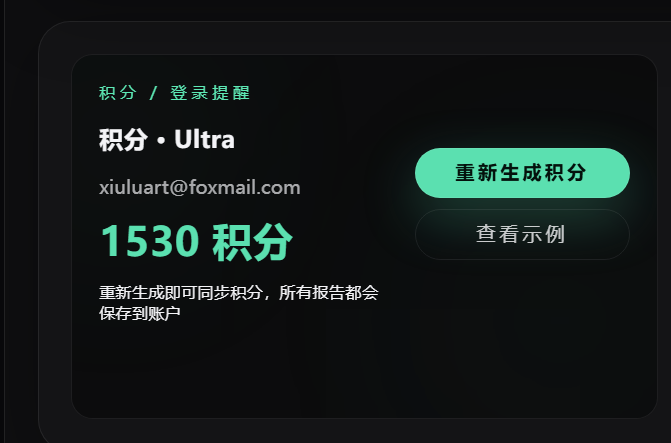
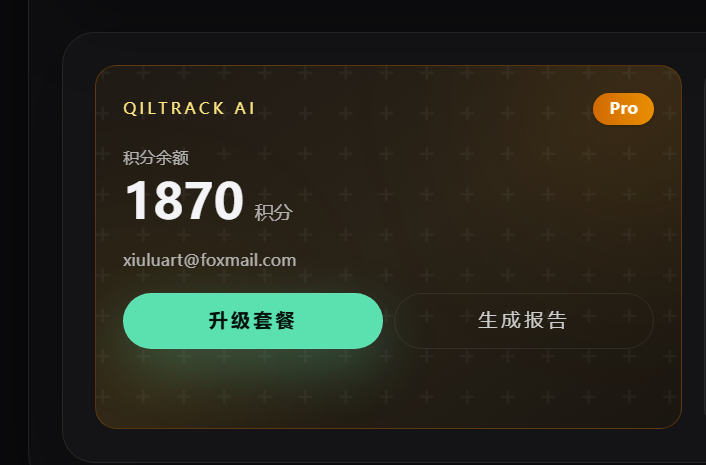
会员卡优化2.0（底色统一）

diff --git a/lib/i18n.tsx b/lib/i18n.tsx
@@ -1255,8 +1255,8 @@ const translations: Record<string, TranslationEntry> = {
     en: "10 credits daily check-in",
     ja: "毎日チェックインで10クレジット",
     ko: "매일 체크인 10 크레딧",
-    "zh-Hant": "每日簽到 10 積分",
-    "zh-Hans": "每日签到 10 积分",
+    "zh-Hant": "每日簽到可領 10 積分",
+    "zh-Hans": "每日签到可领 10 积分",
   },
   "pricing.plan.free.feature3": {
     en: "View reports online",
@@ -1332,12 +1332,12 @@ const translations: Record<string, TranslationEntry> = {
     },
   }),
   "pricing.plan.monthly.feature2": withChineseVariants({
-    en: "15 credits daily check-in",
-    ja: "毎日チェックインで15クレジット",
-    ko: "매일 체크인 15 크레딧",
+    en: "30 credits daily check-in",
+    ja: "毎日チェックインで30クレジット",
+    ko: "매일 체크인 30 크레딧",
     zh: {
-      hant: "每日簽到 15 積分",
-      hans: "每日签到 15 积分",
+      hant: "每日簽到可領 30 積分",
+      hans: "每日签到可领 30 积分",
     },
   }),
   "pricing.plan.monthly.feature3": withChineseVariants({
@@ -1402,10 +1402,10 @@ const translations: Record<string, TranslationEntry> = {
     zh: "300 月度积分",
   }),
   "pricing.plan.pro.feature2": withChineseVariants({
-    en: "15 credits daily check-in",
-    ja: "毎日チェックインで15クレジット",
-    ko: "매일 체크인 15 크레딧",
-    zh: "每日签到 15 积分",
+    en: "30 credits daily check-in",
+    ja: "毎日チェックインで30クレジット",
+    ko: "매일 체크인 30 크레딧",
+    zh: "每日签到可领 30 积分",
   }),
   "pricing.plan.pro.feature3": withChineseVariants({
     en: "Export reports as DOCX",
@@ -1484,12 +1484,12 @@ const translations: Record<string, TranslationEntry> = {
     },
   }),
   "pricing.plan.annual.feature2": withChineseVariants({
-    en: "30 credits daily check-in",
-    ja: "毎日チェックインで30クレジット",
-    ko: "매일 체크인 30 크레딧",
+    en: "60 credits daily check-in",
+    ja: "毎日チェックインで60クレジット",
+    ko: "매일 체크인 60 크레딧",
     zh: {
-      hant: "每日簽到 30 積分",
-      hans: "每日签到 30 积分",
+      hant: "每日簽到可領 60 積分",
+      hans: "每日签到可领 60 积分",
     },
   }),
   "pricing.plan.annual.feature3": withChineseVariants({
@@ -1563,10 +1563,10 @@ const translations: Record<string, TranslationEntry> = {
     zh: "1,500 月度积分",
   }),
   "pricing.plan.ultra.feature2": withChineseVariants({
-    en: "30 credits daily check-in",
-    ja: "毎日チェックインで30クレジット",
-    ko: "매일 체크인 30 크레딧",
-    zh: "每日签到 30 积分",
+    en: "60 credits daily check-in",
+    ja: "毎日チェックインで60クレジット",
+    ko: "매일 체크인 60 크레딧",
+    zh: "每日签到可领 60 积分",
   }),
   "pricing.plan.ultra.feature3": withChineseVariants({
     en: "PDF + DOCX export",
@@ -4127,6 +4127,106 @@ const translations: Record<string, TranslationEntry> = {
     zh: {
       hant: "領取 30 積分",
       hans: "领取 30 积分",
+    },
+  }),
+  // Daily reward component translations
+  "dailyReward.title": withChineseVariants({
+    en: "Daily Check-in",
+    ja: "毎日チェックイン",
+    ko: "매일 체크인",
+    zh: {
+      hant: "每日簽到",
+      hans: "每日签到",
+    },
+  }),
+  "dailyReward.streak": withChineseVariants({
+    en: "Streak: {{count}} days",
+    ja: "連続 {{count}} 日",
+    ko: "연속 {{count}} 일",
+    zh: {
+      hant: "連續簽到 {{count}} 天",
+      hans: "连续签到 {{count}} 天",
+    },
+  }),
+  "dailyReward.canClaim": withChineseVariants({
+    en: "Claim {{credits}} credits today",
+    ja: "本日 {{credits}} クレジット獲得可能",
+    ko: "오늘 {{credits}} 크레딧 받기",
+    zh: {
+      hant: "今日可領取 {{credits}} 積分",
+      hans: "今日可领取 {{credits}} 积分",
+    },
+  }),
+  "dailyReward.claimed": withChineseVariants({
+    en: "Claimed {{credits}} credits today",
+    ja: "本日 {{credits}} クレジット取得済み",
+    ko: "오늘 {{credits}} 크레딧 받음",
+    zh: {
+      hant: "今日已領取 {{credits}} 積分",
+      hans: "今日已领取 {{credits}} 积分",
+    },
+  }),
+  "dailyReward.claimNow": withChineseVariants({
+    en: "Claim Now",
+    ja: "今すぐ取得",
+    ko: "지금 받기",
+    zh: {
+      hant: "立即領取",
+      hans: "立即领取",
+    },
+  }),
+  "dailyReward.alreadyClaimed": withChineseVariants({
+    en: "Claimed",
+    ja: "取得済み",
+    ko: "받음",
+    zh: {
+      hant: "已領取",
+      hans: "已领取",
+    },
+  }),
+  "dailyReward.claiming": withChineseVariants({
+    en: "Claiming...",
+    ja: "取得中...",
+    ko: "받는 중...",
+    zh: {
+      hant: "領取中...",
+      hans: "领取中...",
+    },
+  }),
+  "dailyReward.calendar.title": withChineseVariants({
+    en: "Check-in Progress",
+    ja: "チェックイン進捗",
+    ko: "체크인 진행",
+    zh: {
+      hant: "連續簽到進度",
+      hans: "连续签到进度",
+    },
+  }),
+  "dailyReward.calendar.thisWeek": withChineseVariants({
+    en: "This week",
+    ja: "今週",
+    ko: "이번 주",
+    zh: {
+      hant: "本週",
+      hans: "本周",
+    },
+  }),
+  "dailyReward.calendar.congrats": withChineseVariants({
+    en: "Congrats! 7-day streak achieved!",
+    ja: "おめでとう！7日連続達成！",
+    ko: "축하합니다! 7일 연속 달성!",
+    zh: {
+      hant: "🎉 恭喜！連續簽到7天，再接再厲！",
+      hans: "🎉 恭喜！连续签到7天，再接再厉！",
+    },
+  }),
+  "dailyReward.error": withChineseVariants({
+    en: "Failed to claim",
+    ja: "取得に失敗しました",
+    ko: "받기 실패",
+    zh: {
+      hant: "領取失敗",
+      hans: "领取失败",
     },
   }),
 } as const satisfies Record<string, TranslationEntry>;

diff --git a/app/components/DailyRewardButton.tsx b/app/components/DailyRewardButton.tsx
@@ -2,6 +2,7 @@
 
 import { useState, useEffect } from "react";
 import { claimDailyReward, fetchDailyRewardStatus } from "@/lib/services/api";
+import { useLanguage } from "@/lib/i18n";
 
 interface DailyRewardButtonProps {
   onRewardClaimed?: (credits: number) => void;
@@ -9,6 +10,7 @@ interface DailyRewardButtonProps {
 }
 
 export function DailyRewardButton({ onRewardClaimed, className = "" }: DailyRewardButtonProps) {
+  const { t } = useLanguage();
   const [claiming, setClaiming] = useState(false);
   const [claimed, setClaimed] = useState(false);
   const [streak, setStreak] = useState(0);
@@ -106,16 +108,16 @@ export function DailyRewardButton({ onRewardClaimed, className = "" }: DailyRewa
 
         {/* 内容 */}
         <div className="flex-1">
-          <h3 className="text-base font-semibold text-[var(--color-foreground)]">每日签到</h3>
+          <h3 className="text-base font-semibold text-[var(--color-foreground)]">{t("dailyReward.title")}</h3>
           {streak > 0 && (
             <p className="text-xs text-subtle mt-0.5">
-              连续签到 <span className="font-semibold text-emerald-300">{streak}</span> 天
+              {t("dailyReward.streak", { count: String(streak) })}
             </p>
           )}
           <p className={`text-sm mt-1 font-medium ${claimed ? "text-slate-400" : "text-emerald-300"}`}>
             {claimed
-              ? `今日已领取 ${dailyRewardAmount} 积分`
-              : `今日可领取 ${dailyRewardAmount} 积分`}
+              ? t("dailyReward.claimed", { credits: String(dailyRewardAmount) })
+              : t("dailyReward.canClaim", { credits: String(dailyRewardAmount) })}
           </p>
           {error && (
             <p className="text-xs text-red-400 mt-1">{error}</p>
@@ -138,17 +140,17 @@ export function DailyRewardButton({ onRewardClaimed, className = "" }: DailyRewa
                 <circle className="opacity-25" cx="12" cy="12" r="10" stroke="currentColor" strokeWidth="4" fill="none"></circle>
                 <path className="opacity-75" fill="currentColor" d="M4 12a8 8 0 018-8V0C5.373 0 0 5.373 0 12h4zm2 5.291A7.962 7.962 0 014 12H0c0 3.042 1.135 5.824 3 7.938l3-2.647z"></path>
               </svg>
-              领取中
+              {t("dailyReward.claiming")}
             </span>
           ) : claimed ? (
             <span className="flex items-center gap-1.5">
               <svg className="h-4 w-4" fill="none" viewBox="0 0 24 24" stroke="currentColor">
                 <path strokeLinecap="round" strokeLinejoin="round" strokeWidth={2} d="M5 13l4 4L19 7" />
               </svg>
-              已领取
+              {t("dailyReward.alreadyClaimed")}
             </span>
           ) : (
-            "立即领取"
+            t("dailyReward.claimNow")
           )}
         </button>
       </div>
@@ -163,13 +165,14 @@ interface DailyRewardCalendarProps {
 }
 
 export function DailyRewardCalendar({ streak, className = "" }: DailyRewardCalendarProps) {
+  const { t } = useLanguage();
   const days = Array.from({ length: 7 }, (_, i) => i + 1);
 
   return (
     <div className={`daily-reward-calendar ${className}`}>
       <div className="flex items-center justify-between mb-3">
-        <h4 className="text-sm font-semibold text-[var(--color-foreground)]">连续签到进度</h4>
-        <span className="text-xs text-subtle">本周</span>
+        <h4 className="text-sm font-semibold text-[var(--color-foreground)]">{t("dailyReward.calendar.title")}</h4>
+        <span className="text-xs text-subtle">{t("dailyReward.calendar.thisWeek")}</span>
       </div>
 
       <div className="grid grid-cols-7 gap-2">
@@ -209,7 +212,7 @@ export function DailyRewardCalendar({ streak, className = "" }: DailyRewardCalen
       {streak >= 7 && (
         <div className="mt-3 rounded-lg bg-emerald-500/10 border border-emerald-500/30 px-3 py-2">
           <p className="text-xs text-center text-emerald-300">
-            🎉 恭喜！连续签到7天，再接再厉！
+            {t("dailyReward.calendar.congrats")}
           </p>
         </div>
       )}

diff --git a/app/components/report-generator/CreditsDisplay.tsx b/app/components/report-generator/CreditsDisplay.tsx
@@ -53,8 +53,26 @@ export function CreditsDisplay({
       },
     };
 
-    const tier = auth.planLabel?.toLowerCase() as keyof typeof tierStyles;
-    const styles = tierStyles[tier] || tierStyles.free;
+    // Normalize planLabel to tier key - handle translated labels
+    const normalizeTier = (label: string | undefined): keyof typeof tierStyles => {
+      if (!label) return "free";
+      const lowerLabel = label.toLowerCase();
+      // Direct match for English labels
+      if (lowerLabel === "free" || lowerLabel === "pro" || lowerLabel === "ultra") {
+        return lowerLabel as keyof typeof tierStyles;
+      }
+      // Match translated labels (Chinese, Japanese, Korean, etc.)
+      if (lowerLabel.includes("pro") || lowerLabel.includes("プロ") || lowerLabel.includes("프로") || lowerLabel.includes("月费") || lowerLabel.includes("月費")) {
+        return "pro";
+      }
+      if (lowerLabel.includes("ultra") || lowerLabel.includes("ウルトラ") || lowerLabel.includes("울트라")) {
+        return "ultra";
+      }
+      return "free";
+    };
+
+    const tier = normalizeTier(auth.planLabel);
+    const styles = tierStyles[tier];
 
     return (
       <div className={`relative overflow-hidden rounded-2xl border ${styles.border} bg-gradient-to-br ${styles.bg} p-5`}>
